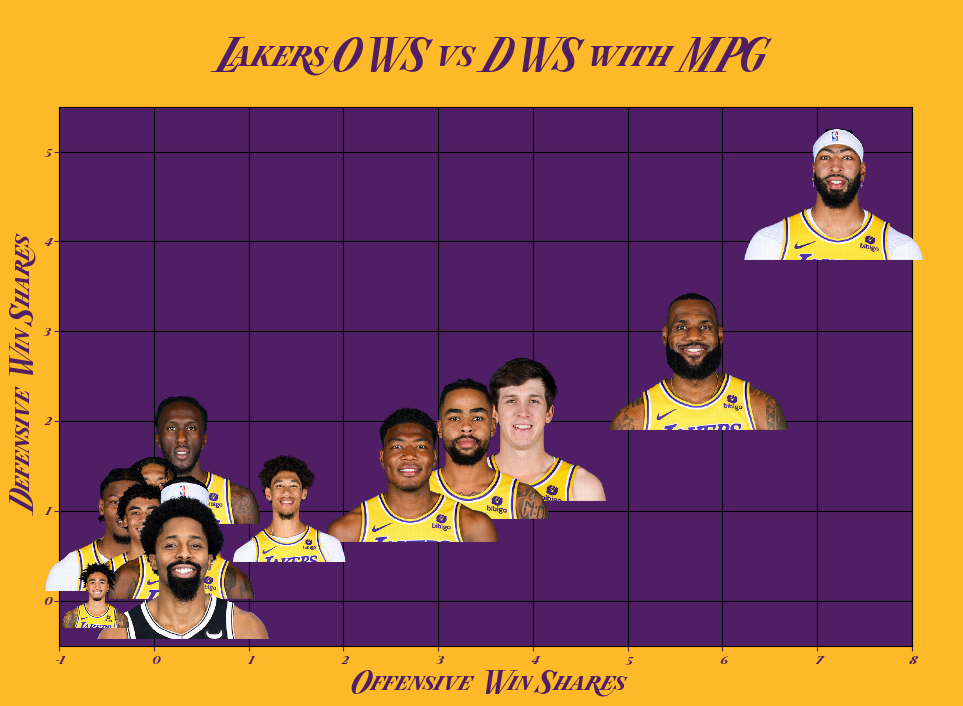
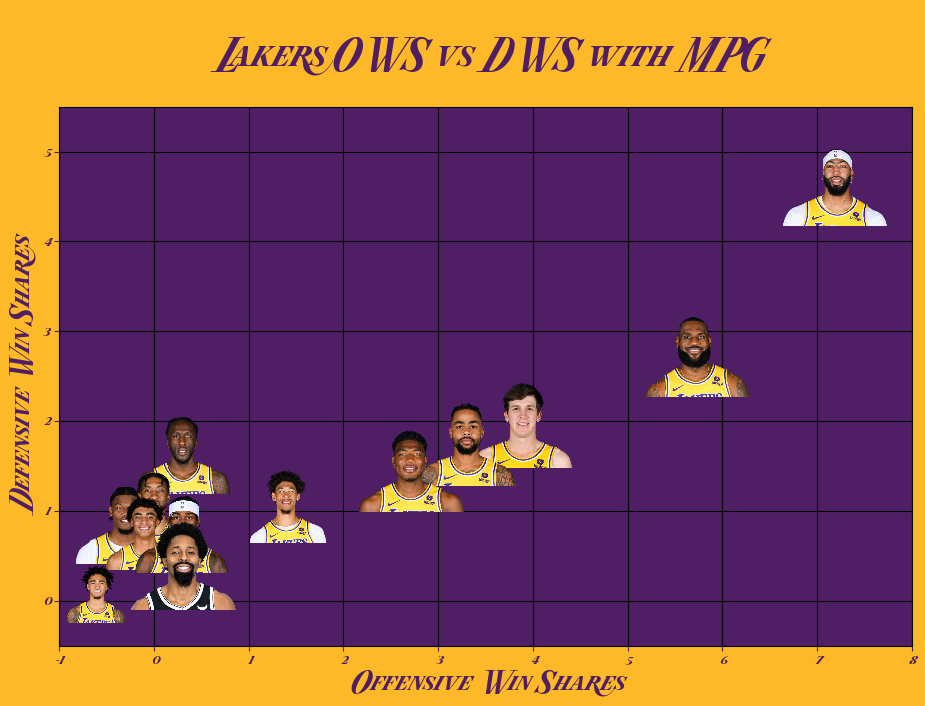
some text

diff --git a/other.html b/other.html
@@ -224,9 +224,9 @@
         </div>
         <div class="backgd1">
             <h2 class="center-text">Application Tracker</h2>
-            <p> I haven't met anyone that loves, or even likes, the job application process. However, it's an inevitable process that most of us
-                normal people will have to go through at least a couple time in our lives. As I am now working on landing my first job in Data, I wanted
-                to keep track of the data during my application process. That way, afterwords, I can analyze and play around the data to see what patterns
+            <p> I haven't met anyone that loves the job application process. However, it's an inevitable process that most of us
+                normal people will have to go through at least a couple of times in our lives. As I am now working on landing my first job in Data, I wanted
+                to keep track of the data during my application process. That way, afterwords, I can play around the data to see what patterns
                 and truths I can uncover. Therefore, in Python, I created a database to track all my applications and any updates to those applications.
                 I also included a function that automatically marks after a certain number of days without a response as <b>GHOSTED &#128123;</b>.
             </p>   
@@ -266,8 +266,8 @@
 
         <div class="backgd1">
             <h2 class="center-text">Python Games</h2>
-            I enjoy games. With the well-defined parameters and constraints of a game, it is the perfect environment to practice critical thinking and problem solving. When I was teaching, I tried to incorporate games as much
-            into my lessons. To practice coding, I picked some games and gave them a shot. You can see the games <a href="https://github.com/chenjoshua7/python_games/tree/main">here.</a>
+            I enjoy games. With the well-defined parameters and constraints of a game, it is the perfect environment to practice critical thinking and problem solving. When I was teaching, I tried to incorporate games as much 
+            I could into my lessons. To practice coding, I picked some games and gave them a shot. You can see the games <a href="https://github.com/chenjoshua7/python_games/tree/main">here.</a>
                 <div class="organizedbox">
                     <div class="gamebox">
                         <h3 class="center-text">Tic Tac Toe</h3>

diff --git a/projects/basketball.html b/projects/basketball.html
@@ -63,6 +63,10 @@
             text-align: center;
             font-family: 'Lakers Alt', Arial, sans-serif;
         }
+        p {
+            text-align: center;
+            font-family: Arial, sans-serif;
+        }
 
         .centered {
             text-align: center;
@@ -137,13 +141,21 @@
             
     <div class="backgd">
         <h1 style="color: white">Lakers 2023-2024 Regular Season Analysis</h1>
+        <p style="color: white">While studying Data Science in Spain has been an enjoyably challenging experience, I thoroughly miss the being able 
+            to watch NBA games at a reasonable hour - particularly this season. Since the end of the regular season, I have been pulling data from the
+            <a href="https://balldontlie.io">balldontlie.io</a> API and organizing it into a MySQL database. Below are some visualizations I made using
+            the data.
+        </p>
         <hr>
 
         <div class="plot-container square" id="lkrsstats"></div>
         <br/>
+        <br/>
         <div class="centered-text">
             <img src="images/winshare.png" style="width:800px">
         </div>
+        <p style="color: white">Data for this graph was pulled from <a href="https://basketball-reference.com"> basketball-reference.com.</a> 
+            Marker size of the players corresponds to their minutes per game.</p>
         <br/>
         <br/>
         <hr>
